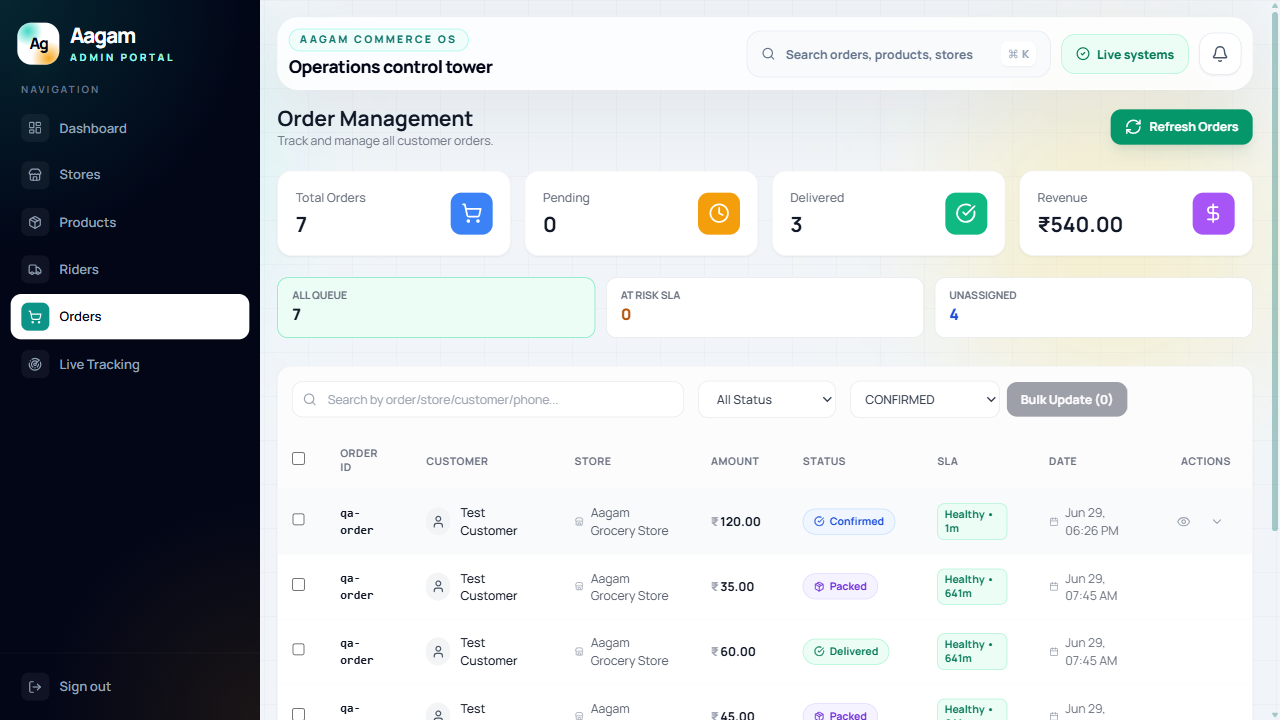
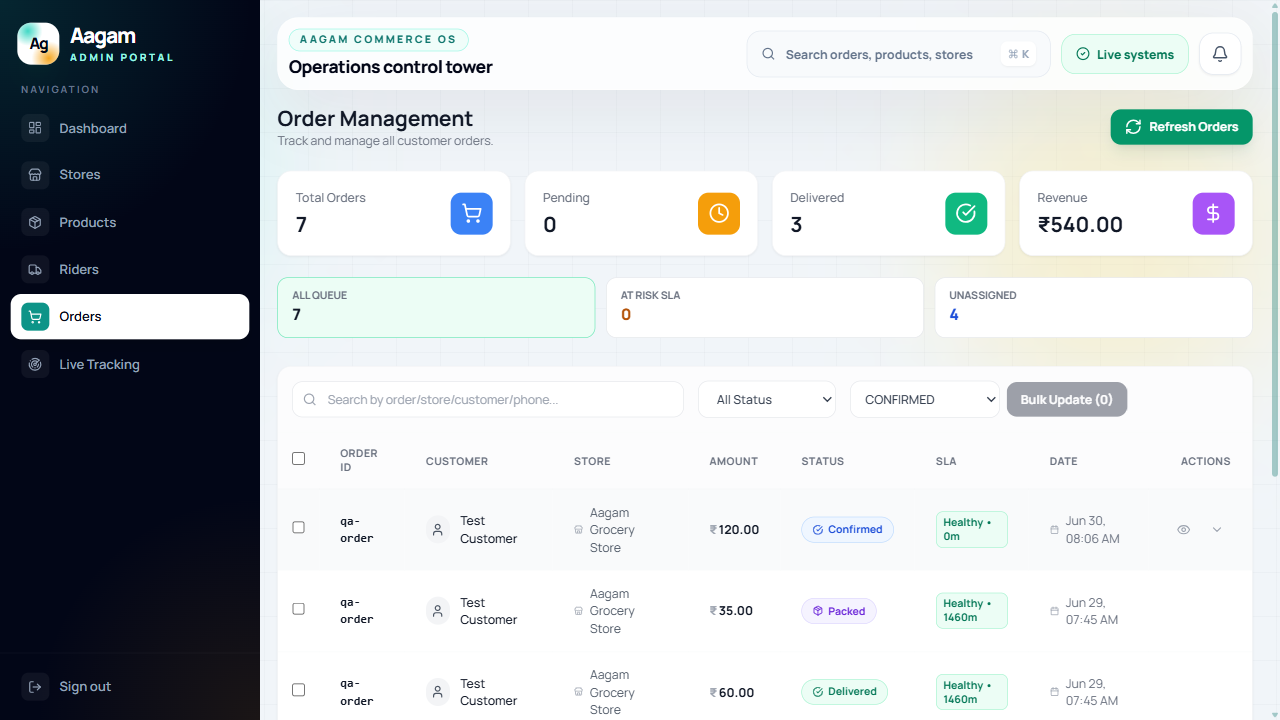
fix: customer test uses order card click, remove stale limitation
- Fix customer test: use order card click instead of non-existent href link
- Assert # and Back to orders instead of Order # text
- Remove stale limitation about duplicate screenshots (all 8 are unique)
- 5/5 Playwright tests passing

diff --git a/apps/admin-dashboard/tests/phase-5-order-to-delivery-e2e.spec.ts b/apps/admin-dashboard/tests/phase-5-order-to-delivery-e2e.spec.ts
@@ -76,14 +76,14 @@ test.describe('Phase 5 E2E: Order-to-Delivery Workflow (UI state verification ov
 
     await expect(page.getByRole('heading', { name: 'My Orders' })).toBeVisible({ timeout: 10000 });
 
-    const orderLinks = page.locator('[href*="/shop/orders/"]');
-    const count = await orderLinks.count();
-    if (count > 0) {
-      await orderLinks.first().click();
-      await page.waitForLoadState('networkidle');
-      await page.waitForTimeout(3000);
-      await expect(page.getByText('Order #').first()).toBeVisible({ timeout: 10000 });
-    }
+    const orderCards = page.locator('[class*="cursor-pointer"]').filter({ hasText: /Confirmed|Pending|Picking|Delivered|Cancelled/ });
+    await expect(orderCards.first()).toBeVisible({ timeout: 10000 });
+    await orderCards.first().click();
+    await page.waitForLoadState('networkidle');
+    await page.waitForTimeout(3000);
+
+    await expect(page.getByText('#').first()).toBeVisible({ timeout: 10000 });
+    await expect(page.getByText('Back to orders')).toBeVisible({ timeout: 10000 });
 
     await waitForStyles(page);
     await page.screenshot({ path: `${SCREENSHOT_DIR}/05-customer-live-tracking.png`, fullPage: true });

diff --git a/docs/ai-runs/2026-06-29_phase-5-live-tracking-delivery-ops.md b/docs/ai-runs/2026-06-29_phase-5-live-tracking-delivery-ops.md
@@ -156,5 +156,4 @@ All 8 screenshots have unique MD5 hashes — no duplicates.
 3. **No push notifications for tracking events**: FCM exists but tracking-specific push not implemented.
 4. **No real-time ETA countdown**: ETA computed on each ping, not continuously updated client-side.
 5. **Zone-based dispatch**: Zone rooms exist but no server-side zone matching logic.
-6. **Playwright screenshots**: Some screenshots identical when no active orders with riders exist in test DB.
-7. **Rider GPS simulation**: Backend tests use backdated pings to avoid jump detection; real GPS flow requires device.
+6. **Rider GPS simulation**: Backend tests use backdated pings to avoid jump detection; real GPS flow requires device.
